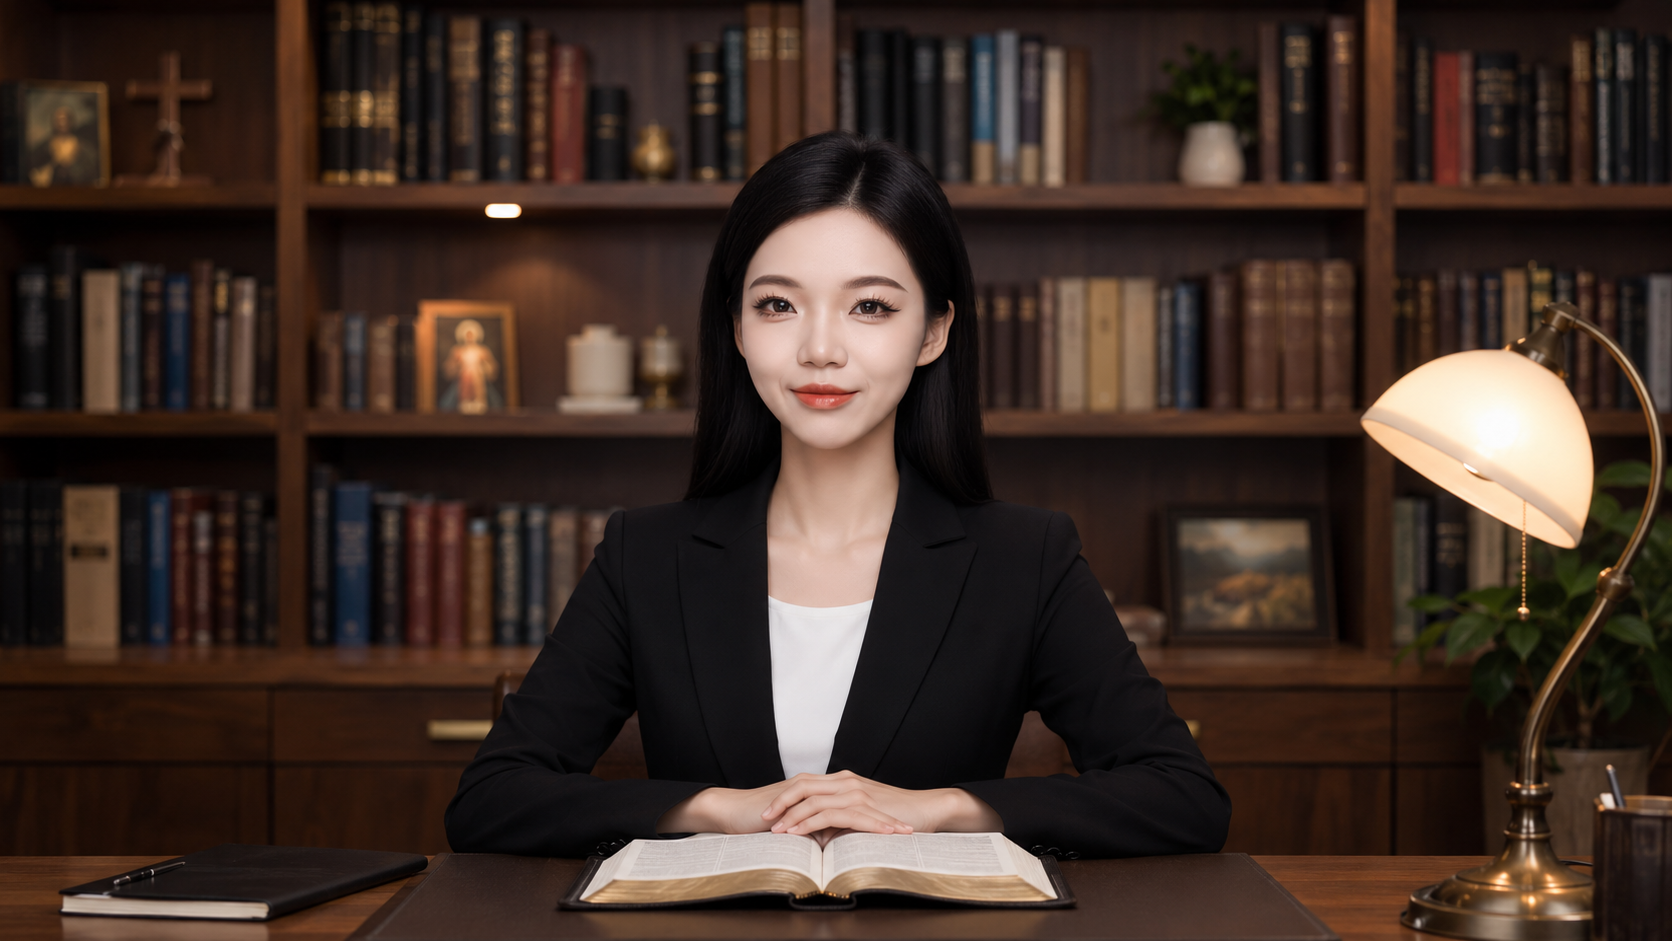
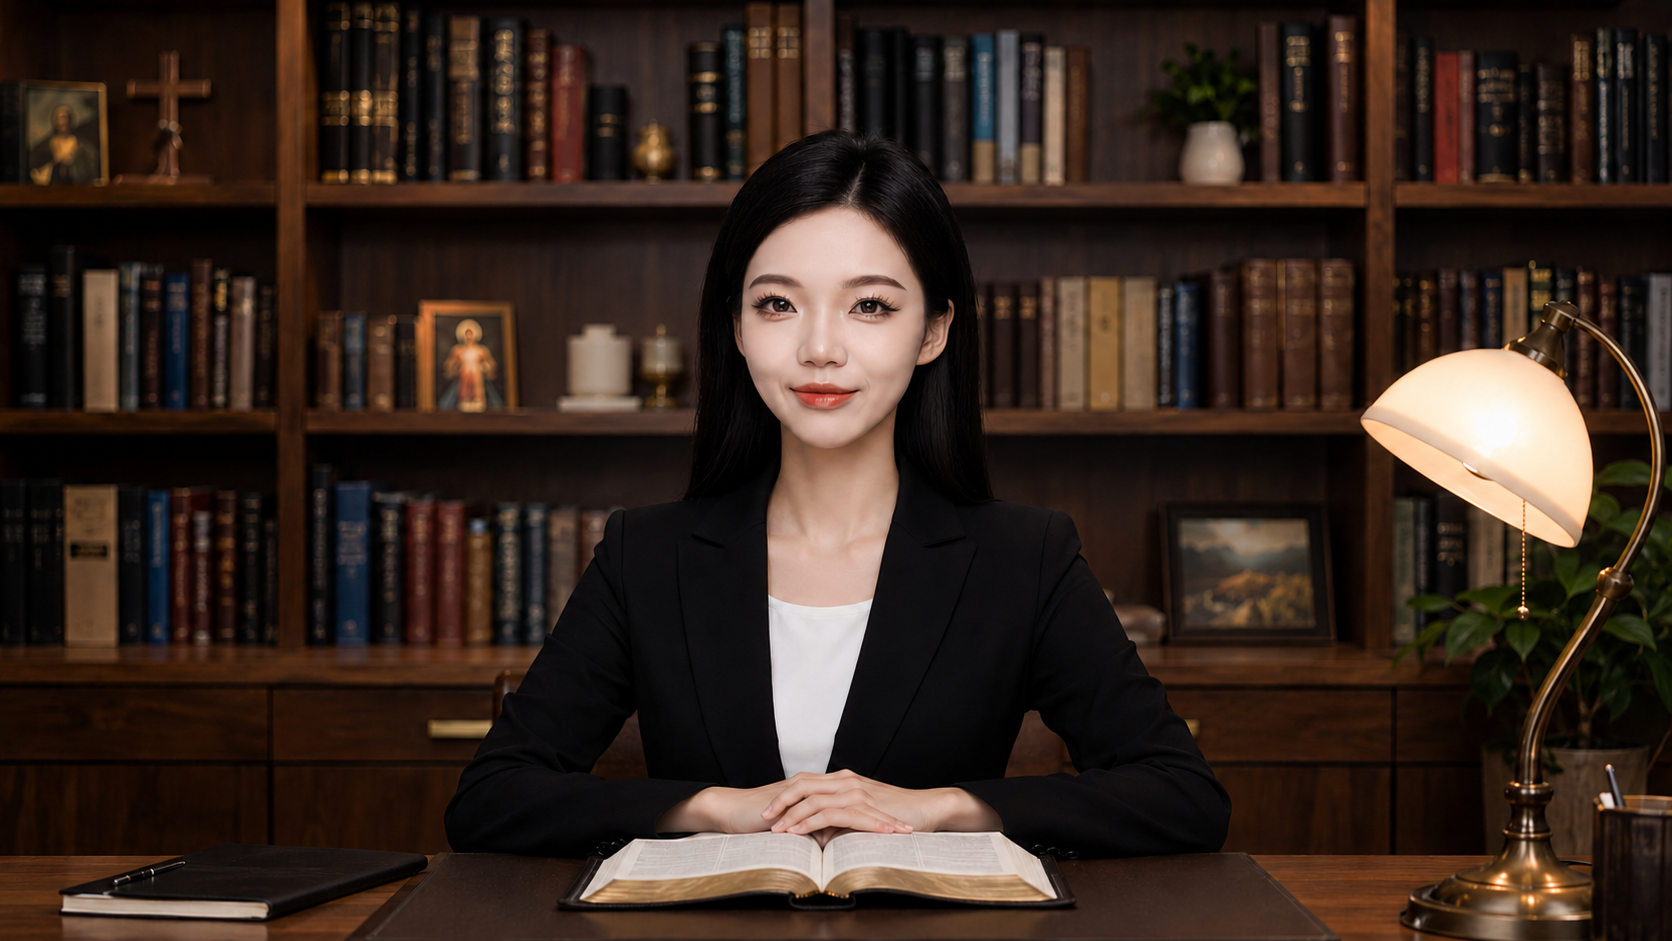
主播按書卷輪替 + 新主播圖 presenter1/2

diff --git a/video-pipeline/nightly_head.py b/video-pipeline/nightly_head.py
@@ -1,13 +1,16 @@
 #!/usr/bin/env python3
 # -*- coding: utf-8 -*-
-"""nightly_head.py — 每晚自動生成一篇數位主播影片
+"""nightly_head.py — 每晚自動生成數位主播影片
 
-生產順序（2026-06-11 規則）：
-1. 依照聖經書卷順序：新約（ntqt/_index.md 從馬太福音 1 章起）→ 全部做完才換舊約
-2. 同一段經文有多篇（不同年份）時，只做「日期最新」的那篇
-3. 已生成的（video-output/head 有 mp4）自動跳過，一晚做一篇
+生產規則：
+1. 依聖經書卷順序：新約（ntqt）→ 全部做完才換舊約。
+2. 同段經文多篇（不同年份）只做日期最新那篇。
+3. 已生成 / 已上傳(csv) / 已嵌入(shortcode) 的自動跳過。
+4. 主播按「書卷」輪替：第1卷=主播1(presenter.png)、第2卷=主播2(presenter2.png)、
+   第3卷=主播1…（presenter2.png 不存在時退回主播1）。
 
-用 --dry 可以只列出接下來 10 篇的隊列，不實際生成。
+--dry 列出接下來 10 篇（含書卷序與主播），不實際生成。
+--count N 本次生成 N 篇；--server local/lan/5090/完整URL。
 """
 import csv
 import datetime
@@ -20,39 +23,59 @@ REPO = HERE.parent
 sys.path.insert(0, str(HERE))
 
 OUTDIR = REPO / "video-output" / "head"
-ENTRY = re.compile(r"^\s*-\s*\[(.+?)\s*QT\s*(.+?)\]\((\d{4}-\d{2}-\d{2})/?\)", re.M)
+ENTRY = re.compile(r"^\s*-\s*\[(.+?)\s*QT\s*(.+?)\]\((\d{4}-\d{2}-\d{2})/?\)")
+BOOK = re.compile(r"^\s*##\s+(.+?)\s*$")
+
+P1 = HERE / "assets" / "presenter.png"
+P2 = HERE / "assets" / "presenter2.png"
+
+
+def presenter_for(book_seq):
+    """書卷序輪替主播：奇數卷→主播1，偶數卷→主播2（presenter2 缺則退回主播1）。"""
+    if book_seq % 2 == 0 and P2.exists():
+        return P2
+    return P1
 
 
 def norm_key(passage: str) -> str:
-    """經文段落正規化：去空白、統一波浪號，作為重複判斷的 key"""
     s = re.sub(r"\s+", "", passage)
     return s.replace("～", "~").replace("〜", "~")
 
 
 def build_queue():
-    """回傳 [(sub, slug), ...]：新約書卷順在前、舊約在後，重複經文取日期最新"""
-    queue = []
+    """回傳 [(sub, slug, book_seq), ...]：書卷順序在前、重複經文取日期最新。
+    book_seq 跨新舊約連續累計（1 起算），供主播輪替使用。"""
+    items = []        # (sub, key, book_seq) 依首次出現序
+    best = {}         # (sub, key) -> 最新 slug
+    book_seq = 0
     for sub in ("ntqt", "otqt"):
         idx = REPO / "content" / "daily-qt" / sub / "_index.md"
         if not idx.exists():
             continue
-        best = {}    # key -> 最新 slug（日期字串比大小）
-        order = []   # key 首次出現順序 = 書卷順序
-        for m in ENTRY.finditer(idx.read_text(encoding="utf-8")):
-            _, passage, slug = m.groups()
-            key = norm_key(passage)
+        seen_books = set()
+        for line in idx.read_text(encoding="utf-8").splitlines():
+            bm = BOOK.match(line)
+            if bm:
+                book = bm.group(1)
+                if book not in seen_books:
+                    seen_books.add(book)
+                    book_seq += 1
+                continue
+            em = ENTRY.search(line)
+            if not em:
+                continue
+            _, passage, slug = em.groups()
+            key = (sub, norm_key(passage))
             if key not in best:
                 best[key] = slug
-                order.append(key)
+                items.append((sub, key, book_seq))
             elif slug > best[key]:
                 best[key] = slug
-        queue += [(sub, best[k]) for k in order]
-    return queue
+    return [(sub, best[key], seq) for (sub, key, seq) in items]
 
 
 def _md_key(path_str: str) -> str:
-    """content/daily-qt/<sub>/<date>.md → '<sub>/<date>'（取路徑後兩段）。
-    跨機器只比相對結構、不比 csv 絕對路徑前綴；保留書卷以免 ntqt/otqt 同日同名互相誤判。"""
+    """content/daily-qt/<sub>/<date>.md → '<sub>/<date>'（取路徑後兩段，跨機相容）。"""
     parts = path_str.strip().replace("\\", "/").rstrip("/").split("/")
     stem = parts[-1].removesuffix(".md")
     sub = parts[-2] if len(parts) >= 2 else ""
@@ -60,7 +83,6 @@ def _md_key(path_str: str) -> str:
 
 
 def _done_keys():
-    """已完成（已上傳/已嵌入）的 '<sub>/<date>' key 集合。"""
     keys = set()
     csv_path = REPO / "video-pipeline" / "yt_uploaded.csv"
     if csv_path.exists():
@@ -73,17 +95,17 @@ def _done_keys():
 
 def pending(queue):
     done = _done_keys()
-    for sub, slug in queue:
+    for sub, slug, seq in queue:
         md = REPO / "content" / "daily-qt" / sub / f"{slug}.md"
         if not md.exists():
             continue
         if (OUTDIR / f"{sub}_{slug}.mp4").exists():
             continue
-        if f"{sub}/{slug}" in done:            # B: csv 已記錄（已上傳）
+        if f"{sub}/{slug}" in done:
             continue
-        if "{{< youtube" in md.read_text(encoding="utf-8"):  # B: 文章已嵌入
+        if "{{< youtube" in md.read_text(encoding="utf-8"):
             continue
-        yield sub, slug, md
+        yield sub, slug, md, seq
 
 
 if __name__ == "__main__":
@@ -92,18 +114,18 @@ if __name__ == "__main__":
 
     if "--dry" in sys.argv:
         print(f"隊列總長 {len(q)} 篇（去重後）。接下來 10 篇：")
-        for i, (sub, slug, md) in enumerate(todo):
+        for i, (sub, slug, md, seq) in enumerate(todo):
             if i >= 10:
                 break
+            who = "主播1" if presenter_for(seq) == P1 else "主播2"
             title = ""
             for line in md.read_text(encoding="utf-8").splitlines():
                 if line.startswith("title:"):
                     title = line.split(":", 1)[1].strip().strip('"')
                     break
-            print(f"  {i+1}. [{sub}] {slug}  {title}")
+            print(f"  {i+1}. [{sub}] {slug}  第{seq}卷 → {who}  {title}")
         sys.exit(0)
 
-    # 解析 --count N 與 --server X（沿用簡易 sys.argv 解析，與 --dry 一致）
     def _argval(flag, default=None):
         if flag in sys.argv:
             i = sys.argv.index(flag)
@@ -116,16 +138,17 @@ if __name__ == "__main__":
     from make_video import make_one
     made = 0
     attempts = 0
-    for sub, slug, md in todo:
+    for sub, slug, md, seq in todo:
         if made >= count:
             break
-        if attempts >= count + 3:   # 容錯上限：避免連續失敗時跑遍整個隊列
+        if attempts >= count + 3:
             print("連續失敗過多，今晚提前結束。", flush=True)
             break
         attempts += 1
-        print(f"[{datetime.datetime.now():%F %T}] 生成 ({made+1}/{count})：[{sub}] {md.name}", flush=True)
+        who = "主播1" if presenter_for(seq) == P1 else "主播2"
+        print(f"[{datetime.datetime.now():%F %T}] 生成 ({made+1}/{count})：[{sub}] {md.name}  第{seq}卷 {who}", flush=True)
         try:
-            r = make_one(md, OUTDIR, mode="head", server=server)
+            r = make_one(md, OUTDIR, mode="head", server=server, bg=str(presenter_for(seq)))
             print(r, flush=True)
             if isinstance(r, dict) and r.get("ok"):
                 made += 1

diff --git a/tasks/handoff/3060-to-5090.md b/tasks/handoff/3060-to-5090.md
@@ -1,5 +1,19 @@
 # 3060 → 5090 信箱（只有 3060 寫；5090 只讀）
 
+## [2026-06-18] FYI：按書卷輪替主播已實作 + 兩張新主播圖入庫
+
+軍師補回「每卷書換一個主播」邏輯（先前幾輪改動中掉了，導致一直只用主播1）：
+- `nightly_head.py`：`build_queue` 帶 `book_seq`（跨新舊約連續累計）；新增 `presenter_for()`——
+  奇數卷→`presenter.png`(主播1)、偶數卷→`presenter2.png`(主播2)，presenter2 缺則退回主播1；
+  生成時把選到的主播圖以 `bg=` 傳給 `make_one`（不再寫死 presenter.png）。
+- assets：`presenter.png`(主播1，新圖) 與 `presenter2.png`(主播2，新圖) 兩張都已入 repo。
+- 現況：隊列還在**第1卷（馬太福音）→全主播1**；**主播2 從第2卷（馬可福音）起**登場。
+- 你下次 `git pull` 後即生效；`--dry` 會顯示每篇「第N卷 → 主播X」。
+
+另：上面那則「每晚改 6 篇」TODO，你回到線上時一併套用（排程 `-Count 4→6`），完成各回一句即可。
+
+---
+
 ## [2026-06-16] TODO：夜間排程改成每晚 6 篇
 
 軍師決定把產能調到**每晚 6 篇**（跑完全站從 ~1.8 年縮到 ~1.2 年；6 篇/天仍在 YouTube 每日配額上限內）。